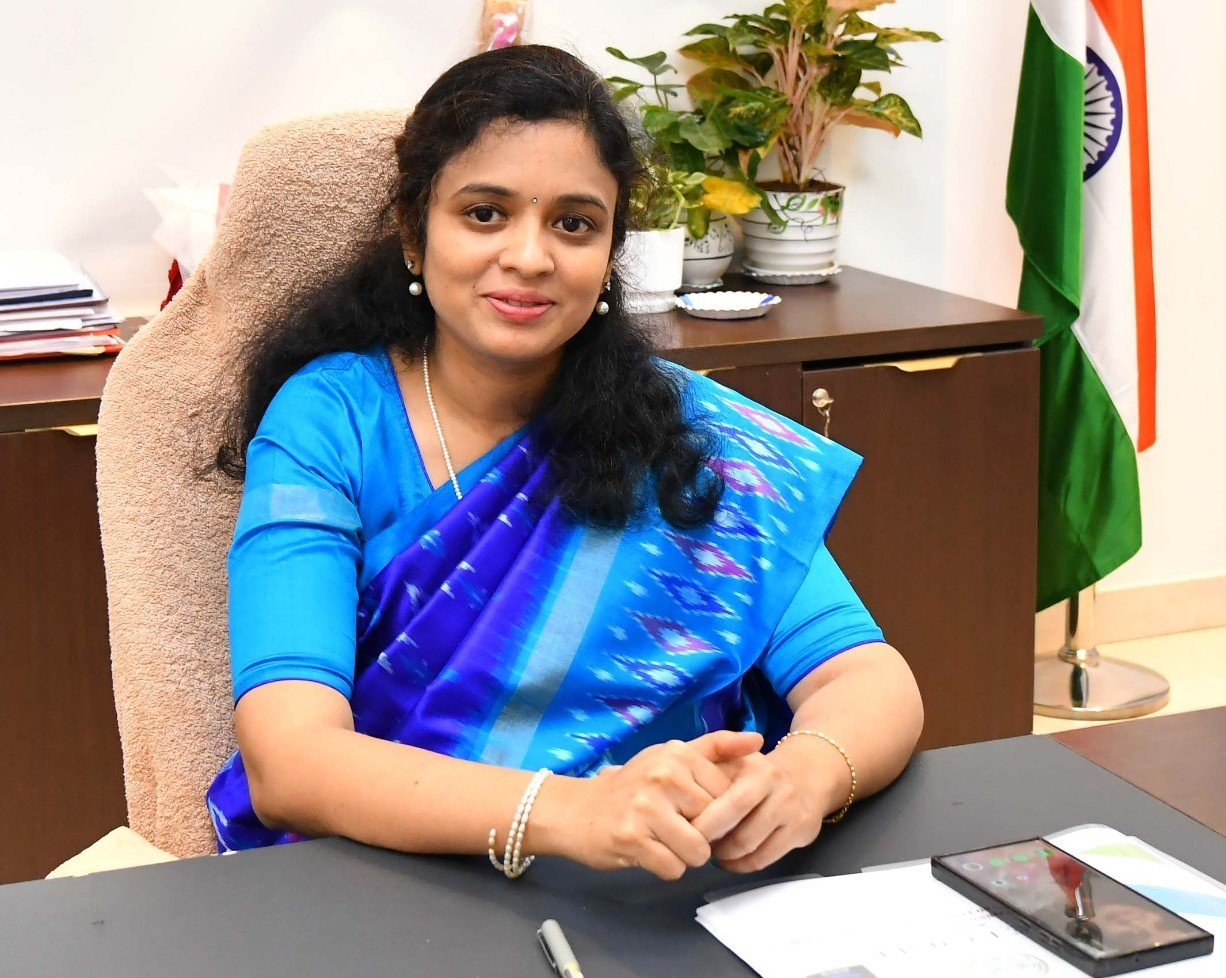
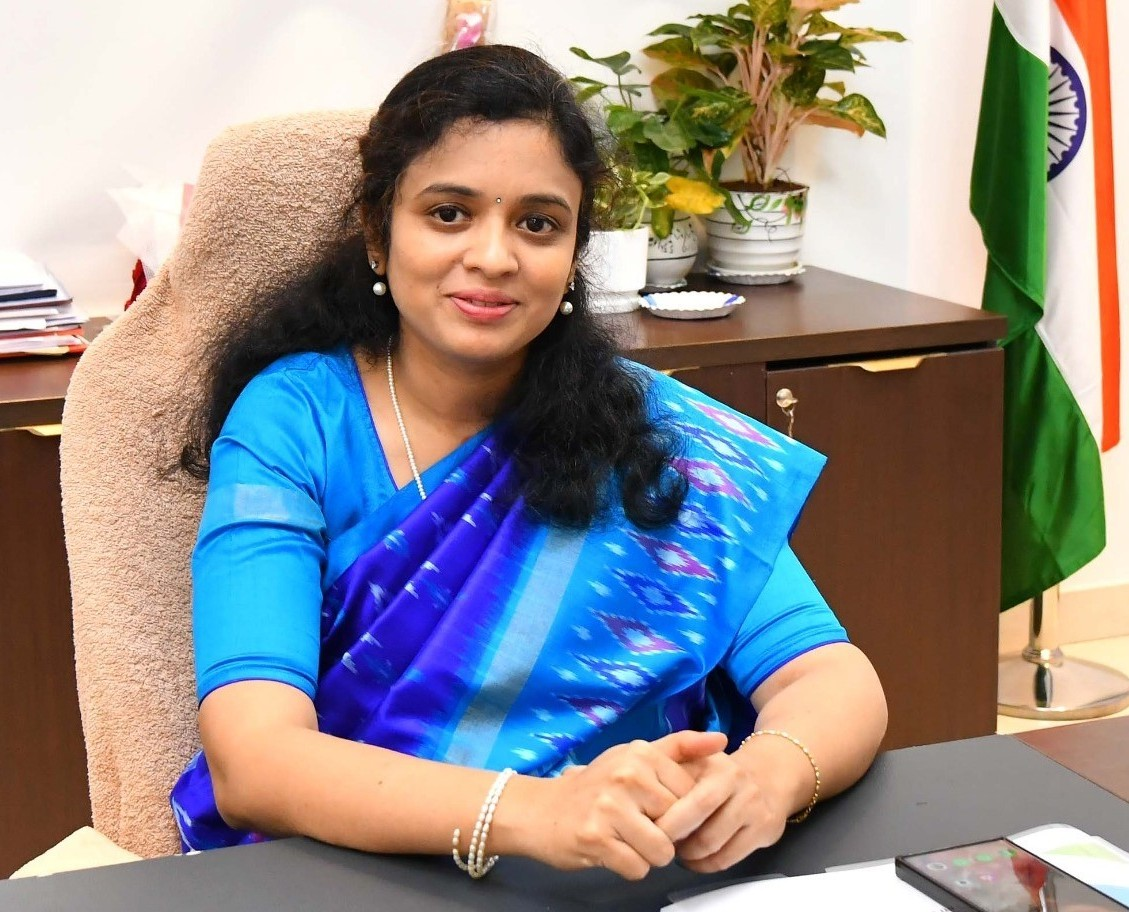
e

diff --git a/Evently/speakers.html b/Evently/speakers.html
@@ -314,7 +314,7 @@
             <div class="team-card h-100">
               <div class="image-container">
                 <img class="cover"
-                  src="https://github.com/omgo101/film-festival/blob/main/Evently/assets/img/pi.jpg?raw=true"
+                  src="https://github.com/omgo101/film-festival/blob/main/Evently/assets/img/pi2.jpg?raw=true"
                   alt="Priyanka, IAS">
               </div>
 
